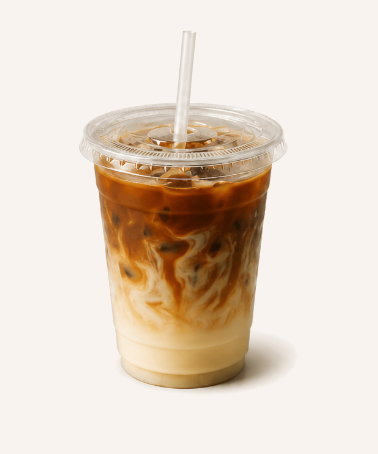
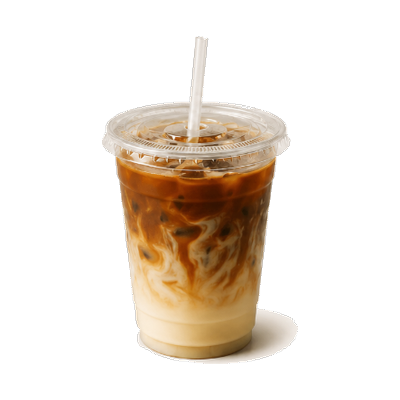
Menu: normalize iced coffee images and add Spanish Latte photo
- Center all iced drink images on uniform 400x400 canvas
- Add Spanish Latte image (Gemini_Generated_Image)

Changed region(s): [[0.2037, 0.06, 0.7857, 0.93]]

diff --git a/data.js b/data.js
@@ -77,7 +77,7 @@ window.MENU = [
         allergens: ['Milk'], nutrition: { kj: 380, kcal: 90, fat: 4, satFat: 2.5, carbs: 7, sugars: 7, fibre: 0, protein: 5, sodium: 70 } },
       { name: 'Latte',       ingr: 'espresso, steamed milk',     price: 3.90, color: '#BE9772', img: 'assets/drinks/coffee-latte.png?v=13',
         allergens: ['Milk'], nutrition: { kj: 550, kcal: 130, fat: 6, satFat: 3.5, carbs: 11, sugars: 11, fibre: 0, protein: 7, sodium: 100 } },
-      { name: 'Spanish Latte', ingr: 'espresso, condensed milk', price: 3.90, color: '#B98A5E', img: '',
+      { name: 'Spanish Latte', ingr: 'espresso, condensed milk', price: 3.90, color: '#B98A5E', img: 'assets/drinks/coffee-spanish-latte.png',
         allergens: ['Milk'] },
       { name: 'Iced Americano',     ingr: 'espresso, cold water, ice',     price: 4.00, color: '#3D2817', img: 'assets/drinks/coffee-iced-americano.png', allergens: [] },
       { name: 'Iced Latte',         ingr: 'espresso, cold milk, ice',      price: 4.50, color: '#BE9772', img: 'assets/drinks/coffee-iced-coffee.png?v=4', allergens: ['Milk'] },
